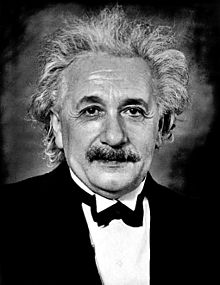
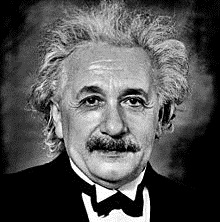
Added embedded images to all scientists #6

diff --git a/scientistmodel.html b/scientistmodel.html
@@ -32,7 +32,7 @@
 		<td>Dopeness meter</dt>
 	</tr>
 	<tr>
-		<td><img src="Newton.jpg" alt="Newton" style="width:300px;height:300px"</td>
+		<td><img src="Newton.jpg" alt="Newton" style="width:300px;height:300px;"></td>
 		<td>Sir Isaac Newton</td>
 		<td>1642-1726</td>
 		<td>Gravity and Inertia</td>
@@ -43,7 +43,7 @@
 		<td></td>
 	</tr>
 	<tr>
-	    <td></td>
+	    <td><img src="Louis_Pasteur.jpg" alt="Pasteur" style="width:300px;height:300px;"></td>
 		<td>Louis Pasteur</td>
 		<td>1822-1895</td>
 		<td>Cures for rabies and anthrax. Pasteurisation of milk.</td>
@@ -54,7 +54,7 @@
 		<td></td>
 	</tr>
 	<tr>
-		<td></td>
+		<td><img src="Galileo.jpg" alt="Galileo" style="width:300px;height:300px;"></td>
 		<td>Galileo</td>
 		<td>1564-1642</td>
 		<td>Telescope. Heliocentric solarsystem.</td>
@@ -65,7 +65,7 @@
 		<td></td>
 	</tr>
 	<tr>
-		<td></td>
+		<td><img src="Einstein.jpg" alt="Einstein" style="width:300px;height:300px;"></td>
 		<td>Albert Einstein</td>
 		<td>1879-1955</td>
 		<td>Theory of Relativity.</td>
